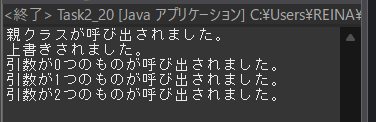
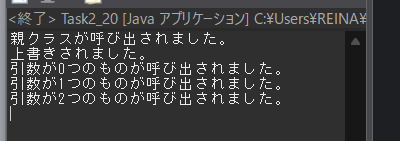
2-20

Changed region(s): [[0.0, 0.0, 0.9947, 1.0], [0.7021, 0.8115, 0.7314, 0.8361], [0.1463, 0.8115, 0.1755, 0.8361]]

diff --git a/Study/2-20/src/study/Task2_20.java b/Study/2-20/src/study/Task2_20.java
@@ -15,7 +15,7 @@ public class Task2_20 {
         //⑦オーバーロードされたargumentメソッドを呼び出し解答画像になるように出力して下さい。
         child.argument();
         child.argument(1);
-        child.argument(2);
+        child.argument(1,1);
     }
 
 }

diff --git a/Study/2-20/src/study/Child.java b/Study/2-20/src/study/Child.java
@@ -4,7 +4,7 @@ package study;
  
 
 
-class Child extends Parent{
+public class Child extends Parent{
 
     //②親クラスのnameメソッドを呼び出すcallNameメソッドを作成して下さい。
     public void callName() {
